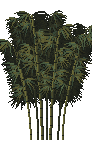
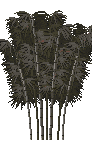
HVQ v2: truc vuon Tay/Dong day nhu concept V1 - kit CM-BAMBG them bamboo_wall_w/e (wall.py: cat thang V1.png cot 0..183 hang 0..147, lap phan cong che tu van phia tren, mo rong trai/tren, 28 mau), chan y530 anh y440..660; doi mau 3 khom bamboo_*_bg ve bang mau vach (bg.py recolor); bo 12 khom sau + 

diff --git a/tools/sprites/CM-BAMBG/wall.py b/tools/sprites/CM-BAMBG/wall.py
@@ -1,0 +1,90 @@
+"""Trúc dày (Opus 22/11, người dùng: 'phần trúc còn thưa'). Vách trúc phông nền cắt THẲNG từ
+concept C V1.png (1x = tỉ lệ game, khung view (1,16) = world x32 y512): vùng vườn Tây
+cột 0..183, hàng 0..147 là khối lá lục xám kín. Phần bị cổng nguyệt/mái che trong concept được
+lấp bằng chính vân trúc phía trên (chép dọc chu kỳ P). Mở rộng: trái x0..32 = soi gương cột 0..31,
+trên 72 hàng = hàng 0..71 dịch ngang (đỉnh tán rìa lá tách theo độ sáng). Lượng tử về bảng màu
+của chính vùng concept (K màu). Đông = lật ngang (x' = 1296 - x - w).
+Mảnh layer base, chân y=530 (sau mọi khóm CM-BAMBG chân >= 540), anchor kéo ảnh xuống tới
+y=530-AY+H < 725 (không vắt qua chân tường), không roof, không va chạm (vườn đã có tường).
+Chạy: python -X utf8 tools/sprites/CM-BAMBG/wall.py [--verify]"""
+from pathlib import Path
+import json, sys
+import numpy as np
+from PIL import Image
+ROOT = Path(__file__).resolve().parents[3]
+V1 = np.array(Image.open(ROOT / '.agents/refs/CM/V1.png').convert('RGB')).astype(np.int16)
+OUT = ROOT / 'public/assets/kits/CM-BAMBG'
+CW, CH = 184, 148            # vùng concept: cột 0..183 (tới mép tường dọc), hàng 0..147 (tới đỉnh lan can)
+P = 72                       # chu kỳ chép dọc để lấp phần bị cổng che
+GATE = (18, 161, 70)         # cổng nguyệt + mái trong concept: cột 18..160 từ hàng 70 trở xuống
+TOP, LEFT = 72, 32           # mở rộng phía trên (vườn kéo lên tới ~y440) và trái (world x0..32)
+FOOT, K = 530, 28
+
+
+def lum(a): return a[..., 0] * 0.3 + a[..., 1] * 0.59 + a[..., 2] * 0.11
+
+def core():
+    c = V1[:CH, :CW].copy()
+    for y in range(GATE[2], CH):                 # lấp từ trên xuống: hàng y lấy hàng y-P (đã sạch)
+        c[y, GATE[0]:GATE[1]] = c[y - P, GATE[0]:GATE[1]]
+    return c
+
+def build():
+    c = core(); rng = np.random.default_rng(22)
+    left = c[:, :LEFT][:, ::-1]
+    body = np.concatenate([left, c], 1)                       # 148 x 216
+    R = np.roll(body, 37, axis=1)                             # tán phía trên: vân hàng 0..71 dịch ngang
+    rgb = np.concatenate([R[:TOP], body], 0)                  # 220 x 216
+    H, W = rgb.shape[:2]
+    # mối nối răng cưa (tránh vạch ngang ở y512): mỗi cột phần trên lấn xuống 0..12 hàng, nhịp theo cụm 3-5 cột
+    x = 0
+    while x < W:
+        k, j = int(rng.integers(3, 6)), int(rng.integers(0, 13))
+        rgb[TOP:TOP + j, x:x + k] = R[TOP:TOP + j, x:x + k]; x += k
+    a = np.ones((H, W), bool)
+    # đỉnh tán: đường vồng theo khóm + rìa lá theo độ sáng (lá sáng giữ, khe tối bỏ)
+    xs = np.arange(W)
+    crest = 18 + 10 * np.sin(xs / 23.0) + 6 * np.sin(xs / 9.0 + 1.3) + rng.integers(-2, 3, W)
+    L = lum(rgb)
+    for x in range(W):
+        cy = int(crest[x])
+        a[:max(cy, 0), x] = False
+        for y in range(max(cy, 0), min(cy + 16, H)):          # dải rìa 16 px: bỏ dần pixel tối
+            if L[y, x] < 70 + (cy + 16 - y) * 3: a[y, x] = False
+    # chân: mép lởm chởm 0..4 px
+    for x in range(W):
+        a[H - rng.integers(0, 5):, x] = False
+    # bỏ điểm cô lập ở rìa
+    for _ in range(2):
+        n = sum(np.roll(np.roll(a, dy, 0), dx, 1) for dy in (-1, 0, 1) for dx in (-1, 0, 1)) - a
+        a &= n >= 3
+    im = Image.fromarray(rgb.clip(0, 255).astype(np.uint8))
+    q = im.quantize(K, method=Image.Quantize.MEDIANCUT, dither=Image.Dither.NONE).convert('RGB')
+    out = np.dstack([np.array(q), a.astype(np.uint8) * 255])
+    w = Image.fromarray(out, 'RGBA')
+    ims = {'bamboo_wall_w': w, 'bamboo_wall_e': w.transpose(Image.Transpose.FLIP_LEFT_RIGHT)}
+    AY = TOP + 18                                             # chân (y530) nằm ở hàng ~90 -> ảnh từ y440 tới y660
+    kit = {n: {'file': f'{n}.png', 'layer': 'base', 'anchor': [0, AY], 'footprint': [W, 20], 'collide': [],
+               'source': 'Opus 22/11: direct crop .agents/refs/CM/V1.png cols 0..183 rows 0..147 (gate filled from rows above, '
+                         f'P={P}), mirror-left {LEFT}, top {TOP} rolled, quantize {K}' + (', flipped' if n.endswith('_e') else '')}
+           for n in ims}
+    return ims, kit
+
+def verify():
+    ims, kit = build()
+    k = json.loads((OUT / 'kit.json').read_text(encoding='utf-8'))['pieces']
+    for n, im in ims.items():
+        assert k[n] == kit[n], n
+        a = np.array(Image.open(OUT / f'{n}.png').convert('RGBA'))
+        assert np.array_equal(a, np.array(im)), n
+        h = a.shape[0]; assert FOOT - kit[n]['anchor'][1] + h < 723, 'vắt qua chân tường'
+    print(f'PASS CM-BAMBG wall: {list(ims)} {ims["bamboo_wall_w"].size}, đáy y{FOOT - kit["bamboo_wall_w"]["anchor"][1] + ims["bamboo_wall_w"].size[1]}')
+
+if __name__ == '__main__':
+    if '--verify' not in sys.argv:
+        ims, kit = build()
+        for n, im in ims.items(): im.save(OUT / f'{n}.png')
+        p = OUT / 'kit.json'; j = json.loads(p.read_text(encoding='utf-8'))
+        j['pieces'].update(kit)
+        p.write_text(json.dumps(j, ensure_ascii=False, indent=2), encoding='utf-8', newline='')
+    verify()

diff --git a/tools/sprites/CM-BAMBG/bg.py b/tools/sprites/CM-BAMBG/bg.py
@@ -15,15 +15,31 @@ def build():
     ims, kit = {}, {'kit': 'CM-BAMBG', 'tile': 32, 'pieces': {}}
     for n in NAMES:
         b = Image.open(SRC / f'{n}.png').convert('RGBA'); r = Image.open(SRC / f'{n}_roof.png').convert('RGBA')
-        ims[n + '_bg'] = Image.alpha_composite(b, r)
+        ims[n + '_bg'] = recolor(Image.alpha_composite(b, r))
         p = src[n]
         kit['pieces'][n + '_bg'] = {'file': f'{n}_bg.png', 'layer': 'base', 'anchor': p['anchor'],
-            'footprint': p['footprint'], 'collide': p['collide'], 'source': f'CM-TERR/{n} + {n}_roof composited (no roof pair)'}
+            'footprint': p['footprint'], 'collide': p['collide'], 'source': f'CM-TERR/{n} + {n}_roof composited (no roof pair), '
+            'recolored to bamboo_wall_w palette by luminance rank (22/11 trúc dày)'}
     return ims, kit
+
+def recolor(im):
+    """22/11 (người dùng: màu game xanh/vàng hơn concept): khớp độ sáng theo hạng với vách trúc cắt từ
+    V1.png rồi lấy màu bảng vách gần nhất về độ sáng -> lục xám như concept, giữ hình khóm."""
+    w = np.array(Image.open(OUT / 'bamboo_wall_w.png').convert('RGBA')).reshape(-1, 4)
+    w = w[w[:, 3] == 255, :3].astype(float)
+    lw = w @ [0.3, 0.59, 0.11]
+    pal = np.unique(w, axis=0); lp = pal @ [0.3, 0.59, 0.11]
+    a = np.array(im).copy(); m = a[:, :, 3] == 255
+    px = a[m, :3].astype(float); l = px @ [0.3, 0.59, 0.11]
+    rank = np.argsort(np.argsort(l)) / max(len(l) - 1, 1)
+    tgt = np.quantile(lw, rank)
+    a[m, :3] = pal[np.abs(lp[None, :] - tgt[:, None]).argmin(1)].astype(np.uint8)
+    return Image.fromarray(a, 'RGBA')
 
 def verify():
     ims, kit = build()
-    assert json.loads((OUT / 'kit.json').read_text(encoding='utf-8')) == kit
+    k = json.loads((OUT / 'kit.json').read_text(encoding='utf-8'))
+    assert {n: k['pieces'][n] for n in kit['pieces']} == kit['pieces'] and k['kit'] == kit['kit']
     for n, im in ims.items():
         a = np.array(Image.open(OUT / f'{n}.png').convert('RGBA'))
         assert np.array_equal(a, np.array(im)), n
@@ -34,5 +50,7 @@ if __name__ == '__main__':
     if '--verify' not in sys.argv:
         ims, kit = build(); OUT.mkdir(parents=True, exist_ok=True)
         for n, im in ims.items(): im.save(OUT / f'{n}.png')
-        (OUT / 'kit.json').write_text(json.dumps(kit, ensure_ascii=False, indent=2), encoding='utf-8')
+        p = OUT / 'kit.json'; j = json.loads(p.read_text(encoding='utf-8')) if p.exists() else kit
+        j['pieces'].update(kit['pieces'])
+        p.write_text(json.dumps(j, ensure_ascii=False, indent=2), encoding='utf-8', newline='')
     verify()
